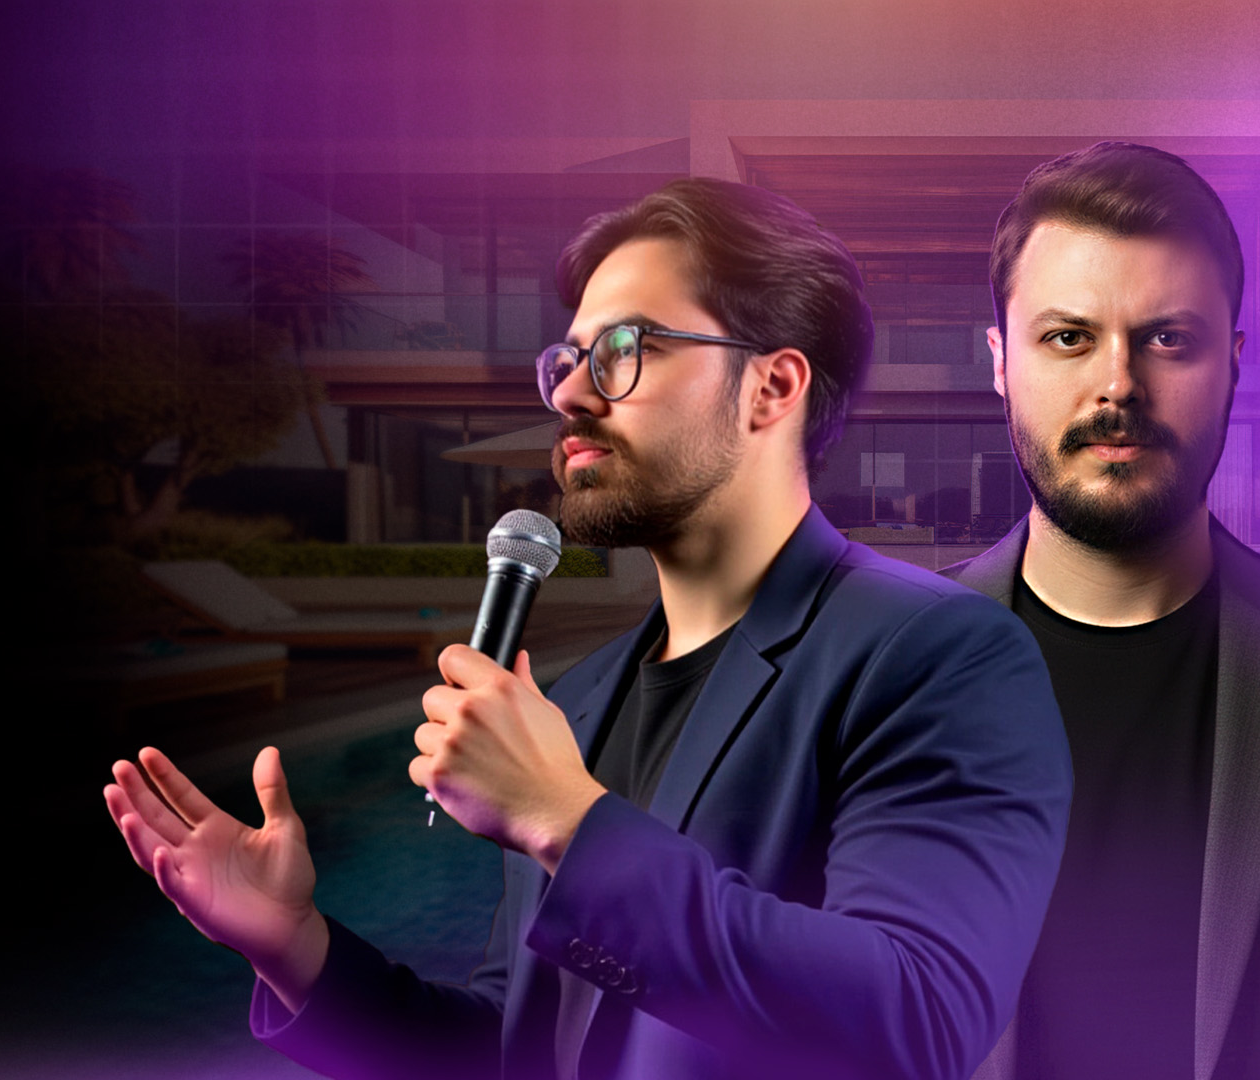
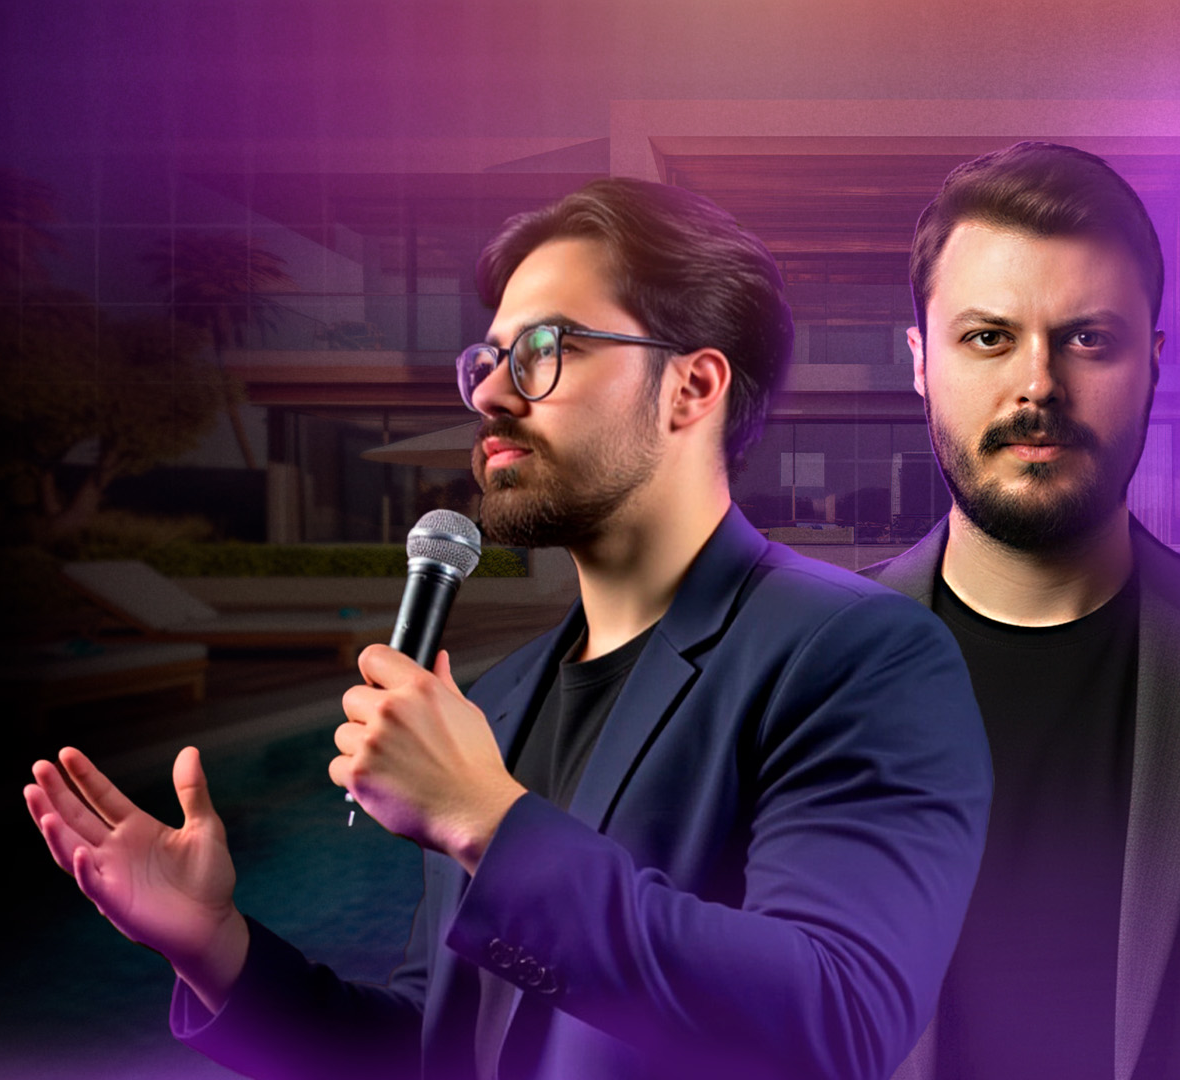
Hero: mao quase na margem esquerda (recorte mais fechado), degrade de saida mais longo e organico

diff --git a/index.html b/index.html
@@ -117,16 +117,16 @@ p,li{text-wrap:pretty;}
   #hero::before{display:none;}
   .hero-top{position:absolute;background:none;backdrop-filter:none;-webkit-backdrop-filter:none;border-bottom:none;}
   .hero-mobile-photo{
-    display:block;width:100%;height:auto;position:relative;z-index:0;
-    -webkit-mask-image:linear-gradient(180deg,#000 96%,transparent 100%);
-    mask-image:linear-gradient(180deg,#000 96%,transparent 100%);
+    display:block;width:100%;height:auto;margin-bottom:-6%;position:relative;z-index:0;
+    -webkit-mask-image:linear-gradient(180deg,#000 78%,transparent 100%);
+    mask-image:linear-gradient(180deg,#000 78%,transparent 100%);
   }
   .hero-top-inner{padding:16px 20px;}
   .hero-logo{height:34px;}
   .hero-date{font-size:10px;padding:6px 11px;gap:5px;white-space:nowrap;background:rgba(0,0,0,0.35);backdrop-filter:blur(6px);-webkit-backdrop-filter:blur(6px);}
   .hero-date .ic{width:12px;height:12px;}
   .date-year{display:none;}
-  .hero-content{position:relative;z-index:1;max-width:100%;min-width:0;text-align:center;padding-top:28px;}
+  .hero-content{position:relative;z-index:1;max-width:100%;min-width:0;text-align:center;}
   .hero-content .eyebrow{text-align:center;}
   .hero-content h1{font-size:20px;font-weight:800;line-height:1.35;}
   .hero-content p.sub{font-size:11.5px;margin-bottom:28px;}
